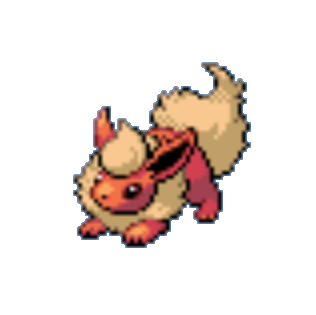
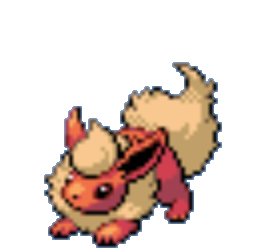
Pixmap añadidos

diff --git a/graphics/battle.cpp b/graphics/battle.cpp
@@ -37,6 +37,8 @@ Battle::Battle(QWidget *parent,Entrenador* _trainer,Entrenador* _user,bool sgenr
     ui->plat_inf->hide();
     ui->avatar->hide();
     ui->enemigo->hide();
+    ui->pokemon_inf->hide();
+    ui->pokemon_sup->hide();
     ui->cuadro_texto->setFont(pokefont);
     // Se obtienen los tamaños de la ventana. (Si todo
     // va normal, debería estar en (0,0),1000x800)
@@ -288,15 +290,24 @@ void Battle::battleStartAnimation(QLabel *fondo) {
     }
     }
 
-    QString stylesheet = "background: transparent; border-image: url(:/files/pokemon/";
-    QString formato = ".png);";
-    qDebug() << stylesheet+QString::fromStdString(user_poke->getName()).toLower()+"2"+formato;
+    QString stylesheet = "background: transparent;";
+    QString path = ":/files/pokemon/";
+    QString formato = ".png";
+
+    qDebug() << path + QString::fromStdString(user_poke->getName()).toLower()+formato;
+
     QMessageBox::information(this,tr("Maestro %1").arg(QString::fromStdString(cpu->getNombre())),tr("¡El Maestro %1 saca a %2!").arg(QString::fromStdString(cpu->getNombre()),QString::fromStdString((cpu_poke->getName()))));
-    ui->enemigo->setStyleSheet(stylesheet+QString::fromStdString(cpu_poke->getName()).toLower()+formato);
+    ui->pokemon_sup->setPixmap(path + QString::fromStdString(cpu_poke->getName()).toLower()+formato);
+    ui->pokemon_sup->setStyleSheet(stylesheet);
+    ui->pokemon_sup->show();
+    ui->enemigo->hide();
     this->repaint();
     QThread::msleep(500);
     QMessageBox::information(this,tr("Aprendiz %1").arg(QString::fromStdString(user->getNombre())),tr("¡Adelante %1!").arg(QString::fromStdString((user_poke->getName()))));
-    ui->avatar->setStyleSheet(stylesheet+QString::fromStdString(user_poke->getName()).toLower()+"2"+formato);
+    ui->pokemon_inf->setPixmap(path + QString::fromStdString(user_poke->getName()).toLower()+"2"+formato);
+    ui->pokemon_inf->setStyleSheet(stylesheet);
+    ui->pokemon_inf->show();
+    ui->avatar->hide();
     this->repaint();
     QThread::msleep(500);
     ui->cuadro_texto->setText("Haz tu movimiento.");

diff --git a/graphics/mapa.cpp b/graphics/mapa.cpp
@@ -13,9 +13,9 @@ Mapa::Mapa(QWidget *parent, bool sgenre, QString snombre) :
     std::string fullPath = SDL_GetBasePath();
     Genero _genre;
 
-    std::ifstream f(fullPath+"./Combate_pokemon/");
+    std::ifstream f(fullPath+"./Combate_pokemon/entrenadores/Jesus.txt");
     if(f.good()){
-        fullPath.append("./Combate_pokemon/");
+        fullPath.append("./Combate_pokemon/entrenadores/");
     }else
         fullPath.append("../Combate_pokemon/");
     jesus = new Entrenador(fullPath + "Jesus.txt");

diff --git a/audio/audio.cpp b/audio/audio.cpp
@@ -31,8 +31,6 @@ void Audio::launchAudio(std::string filename) {
     }
 //        fullPath.append("./Combate_pokemon/audio/files/" + filename);
 
-    std::cout << "Lanzado audio\n";
-    std::cout<<fullPath.c_str()<<std::endl;
     bgm = Mix_LoadMUS(fullPath.c_str());
     Mix_PlayMusic(bgm,-1);
 
